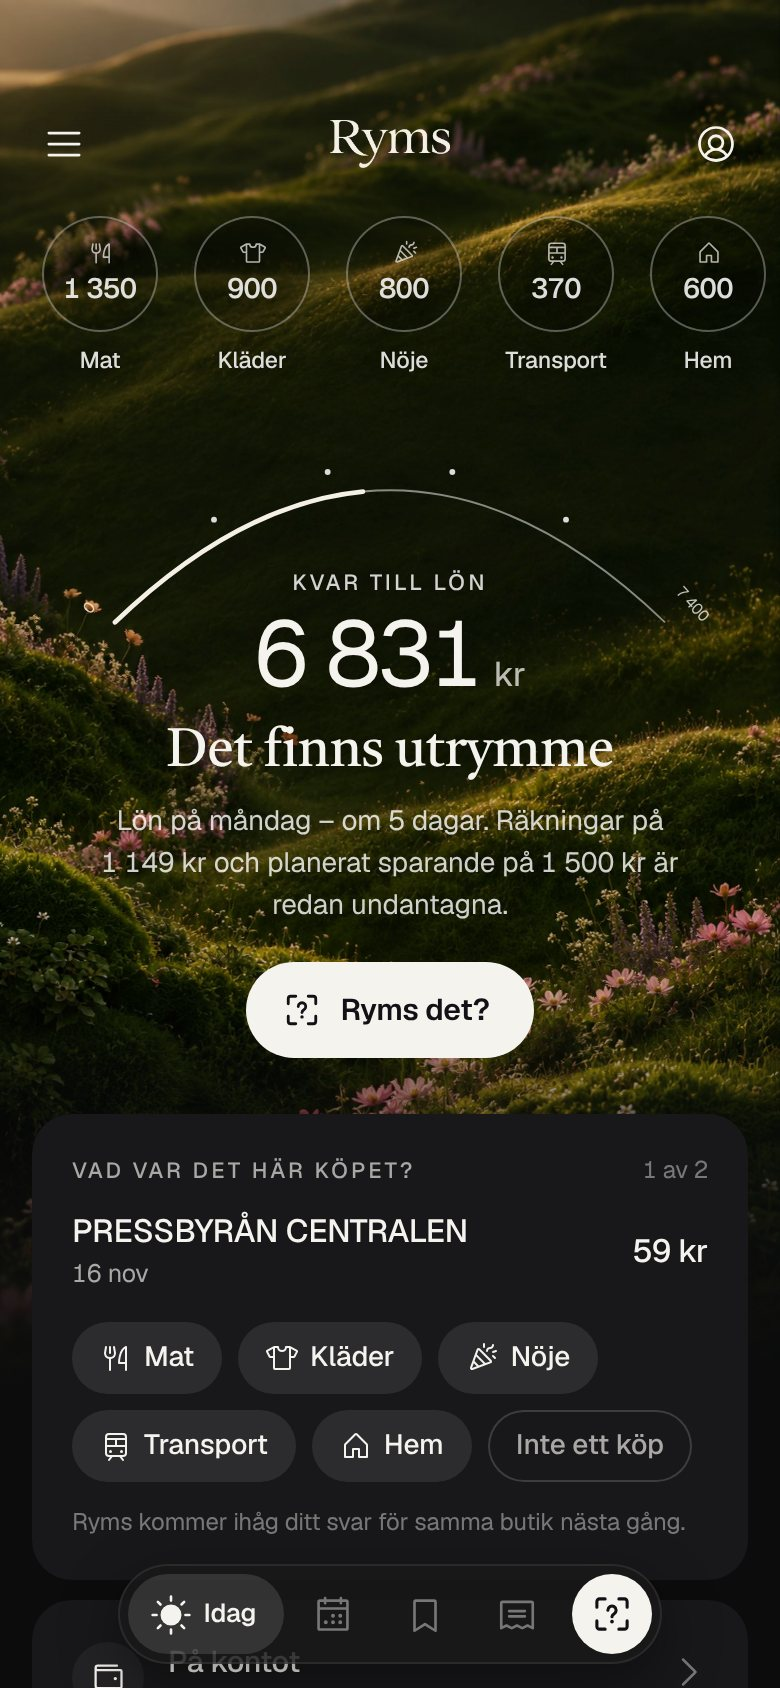
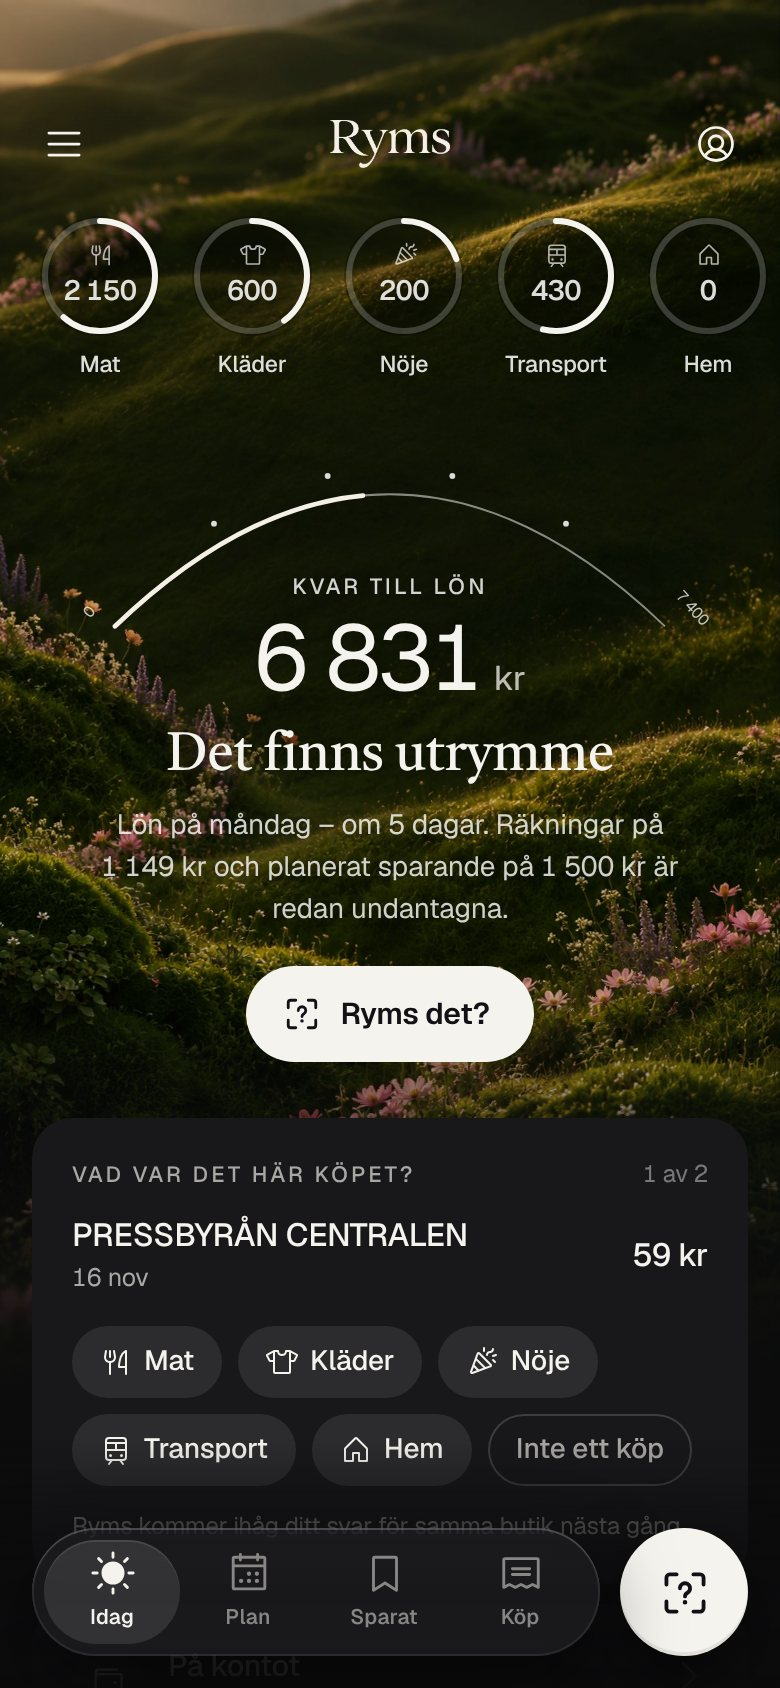
Kategoricirklarna visar använt belopp med en ring för andel av budgeten
Claude-Session: https://claude.ai/code/session_01GAD7svFHpQ8hFb5MfyqAze

diff --git a/src/app/(app)/page.tsx b/src/app/(app)/page.tsx
@@ -79,22 +79,34 @@ export default async function Home() {
         <Landscape tone={m.tone} />
         <Top user={user} />
         {budgeted.length > 0 && (
-          <div className="chips" aria-label={t(`Kvar per kategori i ${mName}`, `Left per category in ${mName}`)}>
-            {budgeted.map((c) => (
-              <CalcButton
-                key={c.id}
-                className="chip"
-                title={calcTitle(c.name)}
-                rows={c.calc}
-                ariaLabel={t(`${c.name}: ${formatKr(c.figures.freeOre)} kvar${c.figures.reservedOre ? " till annat" : ""}. Visa uträkning.`, `${c.name}: ${formatKr(c.figures.freeOre)} left${c.figures.reservedOre ? " for other things" : ""}. Show calculation.`)}
-              >
-                <span className={`chip-ring${c.figures.freeOre < 0 ? " neg" : ""}`}>
-                  <CategoryIcon icon={c.icon} size={15} />
-                  <strong className="num">{formatKr(Math.trunc(c.figures.freeOre / 100) * 100, { unit: false })}</strong>
-                </span>
-                <span>{c.name}</span>
-              </CalcButton>
-            ))}
+          <div className="chips" aria-label={t(`Använt per kategori i ${mName}`, `Used per category in ${mName}`)}>
+            {budgeted.map((c) => {
+              // Siffran är det som är använt hittills; ringen visar hur stor del av månadens budget det är.
+              const spent = Math.max(0, c.figures.spentOre);
+              const share = c.figures.budgetOre > 0 ? spent / c.figures.budgetOre : spent > 0 ? 1 : 0;
+              const over = share > 1;
+              const C = 2 * Math.PI * 27.5;
+              return (
+                <CalcButton
+                  key={c.id}
+                  className="chip"
+                  title={calcTitle(c.name)}
+                  rows={c.calc}
+                  testId={`chip-${c.name}`}
+                  ariaLabel={t(`${c.name}: ${formatKr(spent)} använt, ${Math.round(share * 100)} procent av månadens budget. Visa uträkning.`, `${c.name}: ${formatKr(spent)} used, ${Math.round(share * 100)} percent of this month's budget. Show calculation.`)}
+                >
+                  <span className={`chip-ring${over ? " neg" : ""}`}>
+                    <svg className="chip-progress" viewBox="0 0 60 60" aria-hidden>
+                      <circle cx="30" cy="30" r="27.500" className="track" />
+                      {share > 0 && <circle cx="30" cy="30" r="27.500" className="fill" strokeDasharray={`${Math.min(1, share) * C} ${C}`} />}
+                    </svg>
+                    <CategoryIcon icon={c.icon} size={15} />
+                    <strong className="num">{formatKr(Math.trunc(spent / 100) * 100, { unit: false })}</strong>
+                  </span>
+                  <span>{c.name}</span>
+                </CalcButton>
+              );
+            })}
           </div>
         )}
 

diff --git a/src/app/globals.css b/src/app/globals.css
@@ -2447,3 +2447,34 @@ body:not(:has(.shell.home)):not(:has([data-testid="result"])) .backdrop::after {
   width: 27px;
   height: 27px;
 }
+
+/* Kategoricirklarna: ringen runt visar hur stor del av månadens budget som är använd */
+.chip-ring {
+  position: relative;
+  width: 60px;
+  height: 60px;
+  box-shadow: none;
+  background: rgba(0, 0, 0, 0.26);
+}
+.chip-progress {
+  position: absolute;
+  inset: 0;
+  width: 100%;
+  height: 100%;
+  transform: rotate(-90deg);
+  pointer-events: none;
+}
+.chip-progress circle {
+  fill: none;
+  stroke-width: 3;
+}
+.chip-progress .track {
+  stroke: rgba(255, 255, 255, 0.2);
+}
+.chip-progress .fill {
+  stroke: var(--text);
+  stroke-linecap: round;
+}
+.chip-ring.neg .fill {
+  stroke: var(--bad);
+}
